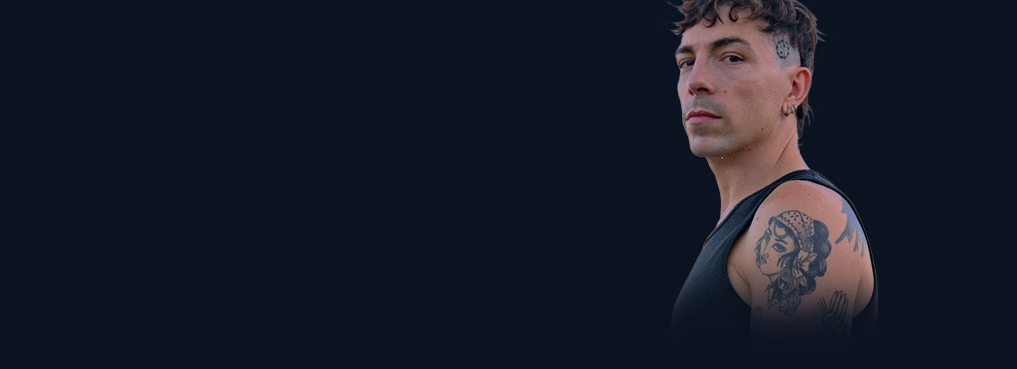
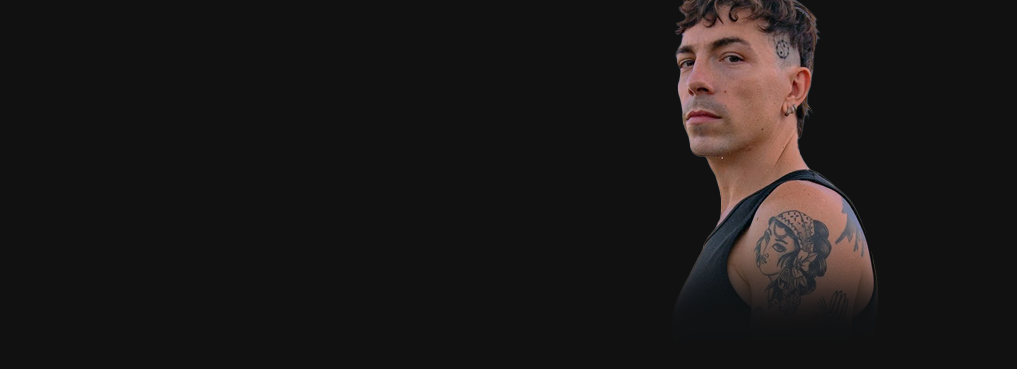
fixing login screen issues and rebranding the music broadcast identity to match with login screen

diff --git a/style.css b/style.css
@@ -11,7 +11,7 @@ body {
     font-family: 'Poppins', sans-serif;
     width: 100%;
     height: 100vh;
-    background: #121213;
+    background: #0e0e0e;
     display: grid;
     place-items: center;
 }
@@ -30,21 +30,21 @@ header .menu_side, .song_side {
     width: 25%;
     height: 90%;
     /* border: 1px solid #fff; */
-    background: #111727;
-    box-shadow: 5px 0px 2px #090f1f;
+    background: #141414;
+    box-shadow: 5px 0px 2px #141414;
     color: #fff;
 }
 
 header .song_side {
     width: 75%;
-    background: #0b1320;
+    background: #111111;
 }
 
 header .master_play {
     width: 100%;
     height: 10%;
     /* border: 1px solid #fff; */
-    background: #111727;
+    background: #131414;
     box-shadow: 0px 3px 8px #090f1f;
 }
 
@@ -98,7 +98,7 @@ header .menu_side .playlist h4 .bi {
 }
 
 header .menu_side .playlist .active {
-   color: #36e2ec;
+   color: #ff690a;
 }
 
 header .menu_side .playlist .active span {
@@ -134,7 +134,7 @@ header .menu_side .menu_song li {
 }
 
 header .menu_side .menu_song li:hover {
-    background: rgb(105, 105, 105, .1);
+    background: rgb(118, 118, 118, .1);
 }
 
 header .menu_side .menu_song li span {
@@ -188,7 +188,7 @@ header .master_play .wave {
 header .master_play .wave .wave1 {
     width: 3px ;
     height: 10px;
-    background: #36e2ec;
+    background: #ff690a;
     margin-right: 3px;
     border-radius: 10px 10px 0px 0px;
     animation: unset;
@@ -291,7 +291,7 @@ header .master_play .icon .bi:nth-child(3) {
     border-radius: 50%;
     padding: 1px 5px 0px 7px;
     margin: 0px 5px;
-    background: #36e2ec;
+    background: #ff690a;
 }
 
 header .master_play span {
@@ -316,7 +316,7 @@ header .master_play .bar {
 
 header .master_play .bar .bar2 {
     position: absolute;
-    background: #36e2ec;
+    background: #ff690a;
     width: 0%;
     height: 100%;
     top: 0;
@@ -326,7 +326,7 @@ header .master_play .bar .bar2 {
 header .master_play .bar .dot {
     position: absolute;
     width: 5px;
-    height: 5px;background: #36e2ec;
+    height: 5px;background: #ff690a;
     border-radius: 50%;
     left: 0%;
     top: -1.5px;
@@ -338,11 +338,11 @@ header .master_play .bar .dot::before {
     position: absolute;
     width: 15px;
     height: 15px;
-    border: 1px solid #36e2ec;
+    border: 1px solid #ff690a;
     border-radius: 50%;
     left: -6.5px;
     top: -6.3px;
-    box-shadow: inset 0px 0px 3px #36e2ec;   
+    box-shadow: inset 0px 0px 3px #ff690a;   
 }
 
 header .master_play .bar input {
@@ -384,7 +384,7 @@ header .master_play .vol input {
 
 header .master_play .vol .vol_bar {
     position: absolute;
-    background: #36e2ec;
+    background: #ff690a;
     width: 100%;
     height: 100%;
     top: 0;
@@ -394,7 +394,7 @@ header .master_play .vol .vol_bar {
 header .master_play .vol .dot {
     position: absolute;
     width: 5px;
-    height: 5px;background: #36e2ec;
+    height: 5px;background: #ff690a;
     border-radius: 50%;
     left: 100%;
     top: -1.5px;
@@ -406,11 +406,11 @@ header .master_play .vol .dot::before {
     position: absolute;
     width: 15px;
     height: 15px;
-    border: 1px solid #36e2ec;
+    border: 1px solid #ff690a;
     border-radius: 50%;
     left: -6px;
     top: -6.3px;
-    box-shadow: inset 0px 0px 3px #36e2ec;
+    box-shadow: inset 0px 0px 3px #ff690a;
 }
 
 header .song_side {
@@ -463,7 +463,7 @@ header .song_side nav ul li span {
     position: absolute;
     width: 100%;
     height: 2.5px;
-    background: #36e2ec;
+    background: #ff690a;
     bottom: -5px;
     left: 0;
     border-radius: 20px;
@@ -549,10 +549,10 @@ header .song_side .content .buttons {
 header .song_side .content .buttons button {
     width: 130px;
     height: 30px;
-    border: 2px solid #36e2ec;
+    border: 2px solid #ff690a;
     outline: none;
     border-radius: 20px;
-    background: #5adae0;
+    background: #ff690a;
     color: #fff;
     cursor: pointer;
     transition: .3s linear;
@@ -560,16 +560,16 @@ header .song_side .content .buttons button {
 
 header .song_side .content .buttons button:hover {
     background: none;
-    color: #36e2ec;
+    color: #ff690a;
 }
 
 header .song_side .content .buttons button:nth-child(2) {
     background: none;
-    color: #36e2ec;
+    color: #ff690a;
 }
 
 header .song_side .content .buttons button:nth-child(2):hover {
-    background: #36e2ec;
+    background: #ff690a;
     color: #fff;
 }
 
@@ -620,7 +620,7 @@ header .song_side .popular_song .pop_song li {
 }
 
 header .song_side .popular_song .pop_song li:hover {
-    background: rgb(105, 105, 170, .1);
+    background: rgba(118, 118, 118, 0.1);
 }
 
 header .song_side .popular_song .pop_song li .img_play {

diff --git a/home.js b/home.js
@@ -1,4 +1,8 @@
 const formOpenBtn = document.querySelector("#form-open");
+const emailInput = document.querySelector("#loginEmail");
+const pwInput = document.querySelector("#loginPassword");
+const form = document.querySelector(".login_form");
+const button = document.querySelector('.buttonLogin');
 home = document.querySelector(".home");
 formContainer = document.querySelector(".form_container");
 formCloseBtn = document.querySelector(".form_close");
@@ -32,3 +36,33 @@ loginBtn.addEventListener("click", (e) => {
     formContainer.classList.remove("active");
 });
 
+
+let adminEmail = "admin@admin.com"
+let adminPw = "admin"
+
+const Verification = () => { 
+    button.disabled = true;
+
+    const validate = () => {
+            const emailValue = emailInput.value;
+            const pwValue = pwInput.value;
+            
+            if (emailValue !== "" && pwValue !== "") {
+                button.style.opacity = "1";
+            } else {
+                button.style.opacity = ".2";
+            }
+
+            if (emailValue == "admin@" && pwValue == "admin") {
+                button.disabled = false;
+            } else {
+                button.disabled = true;;
+            }
+        };
+
+
+        emailInput.addEventListener("input", validate);
+        pwInput.addEventListener("input", validate);
+}
+
+Verification();

diff --git a/home.html b/home.html
@@ -36,12 +36,12 @@
                     <h2>Login</h2>
 
                     <div class="input_box">
-                        <input type="email" placeholder="Enter your email" required>
+                        <input id="loginEmail" type="email" placeholder="Enter your email" required>
                         <i class="uil uil-envelope-alt email"></i>
                     </div>
 
                     <div class="input_box">
-                        <input type="password" placeholder="Enter your password" required>
+                        <input id="loginPassword" type="password" placeholder="Enter your password" required>
                         <i class="uil uil-lock password"></i>
                         <i class="uil uil-eye-slash pw_hide"></i>
                     </div>
@@ -54,7 +54,7 @@
                         <a href="#" class="forgot_pw">Forgot password?</a>
                     </div>
     
-                        <button onclick="window.location.href='index.html'" class="button">Login Now</button>
+                        <button disabled onclick="window.location.href='index.html'" class="buttonLogin">Login Now</button>
     
                         <div class="login_signup">
                             Don't have an account? <a href="#" id="signup">Signup for free!</a>

diff --git a/home.css b/home.css
@@ -16,13 +16,17 @@ a {
     height: 80px;
     width: 100%;
     z-index: 100;
-    padding: 0 20px;
+    padding: 0 0;
 }
 
 .nav {
-    max-width: 1100px;
+    max-width: 1920px;
     width: 100%;
     margin: 0 auto;
+    padding: 0 200px;
+    background: rgba(0, 0, 0, .3);
+    backdrop-filter: blur(10px);
+    box-shadow: 0px 0px 4px rgb(19, 19, 19);  
 }
 
 .nav,
@@ -34,7 +38,8 @@ a {
 }
 .nav_logo,
 .nav_link,
-.button {
+.button,
+.buttonLogin {
     color: #fff;
 }
 
@@ -47,10 +52,12 @@ a {
 }
 
 .nav_link:hover {
-    color: #fff
+    color: #ff690a;
+    transition: .3s ease-out;
+    font-weight: bold;
 }
 
-.button {
+.button, .buttonLogin {
     padding: 6px 24px;
     border: 2px solid #fff;
     background: transparent;
@@ -58,7 +65,8 @@ a {
     cursor: pointer;
 }
 
-.button:active {
+.button:active,
+.buttonLogin:active {
     transform: scale(0.98);
 }
 
@@ -225,12 +233,19 @@ a {
     cursor: pointer;
 }
 
-.form_container .button {
+.form_container .button, .buttonLogin {
     background: #ff690a;
     margin-top: 30px;
     width: 100%;
     padding: 10px 0;
     border-radius: 10px;
+    opacity: .2;
+    cursor: default;
+}
+
+.form_container .buttonLogin.active {
+    opacity: 1;
+    cursor: pointer;
 }
 
 .login_signup {

diff --git a/app.js b/app.js
@@ -285,7 +285,7 @@ Array.from(document.getElementsByClassName('playListPlay')).forEach((e) => {
         });
 
             makeHighlight();
-            Array.from(document.getElementsByClassName('songItem'))[index - 1].style.color = "rgb(54, 226, 236)";
+            Array.from(document.getElementsByClassName('songItem'))[index - 1].style.color = "rgb(255, 105, 10)";
 
             makeItPlay();
             el.target.classList.add('bi-pause-circle-fill');
@@ -405,7 +405,7 @@ back.addEventListener('click', () => {
     });
 
         makeHighlight();
-        Array.from(document.getElementsByClassName('songItem'))[index - 1].style.color = "rgb(54, 226, 236)";
+        Array.from(document.getElementsByClassName('songItem'))[index - 1].style.color = "rgb(255, 105, 10)";
 
         makeItPlay();
         el.target.classList.add('bi-pause-circle-fill');

diff --git a/index.html b/index.html
@@ -10,7 +10,7 @@
 <body>
         <header>
             <div class="menu_side">
-                <h1>Playlist</h1>
+                <h1>WeVibe</h1>
                 <div class="playlist">
                     <h4 class="active"><span></span><i class="bi bi-music-note-beamed"></i> Playlist</h4>
                     <h4><span></span><i class="bi bi-music-note-beamed"></i> Last Listening</h4>
